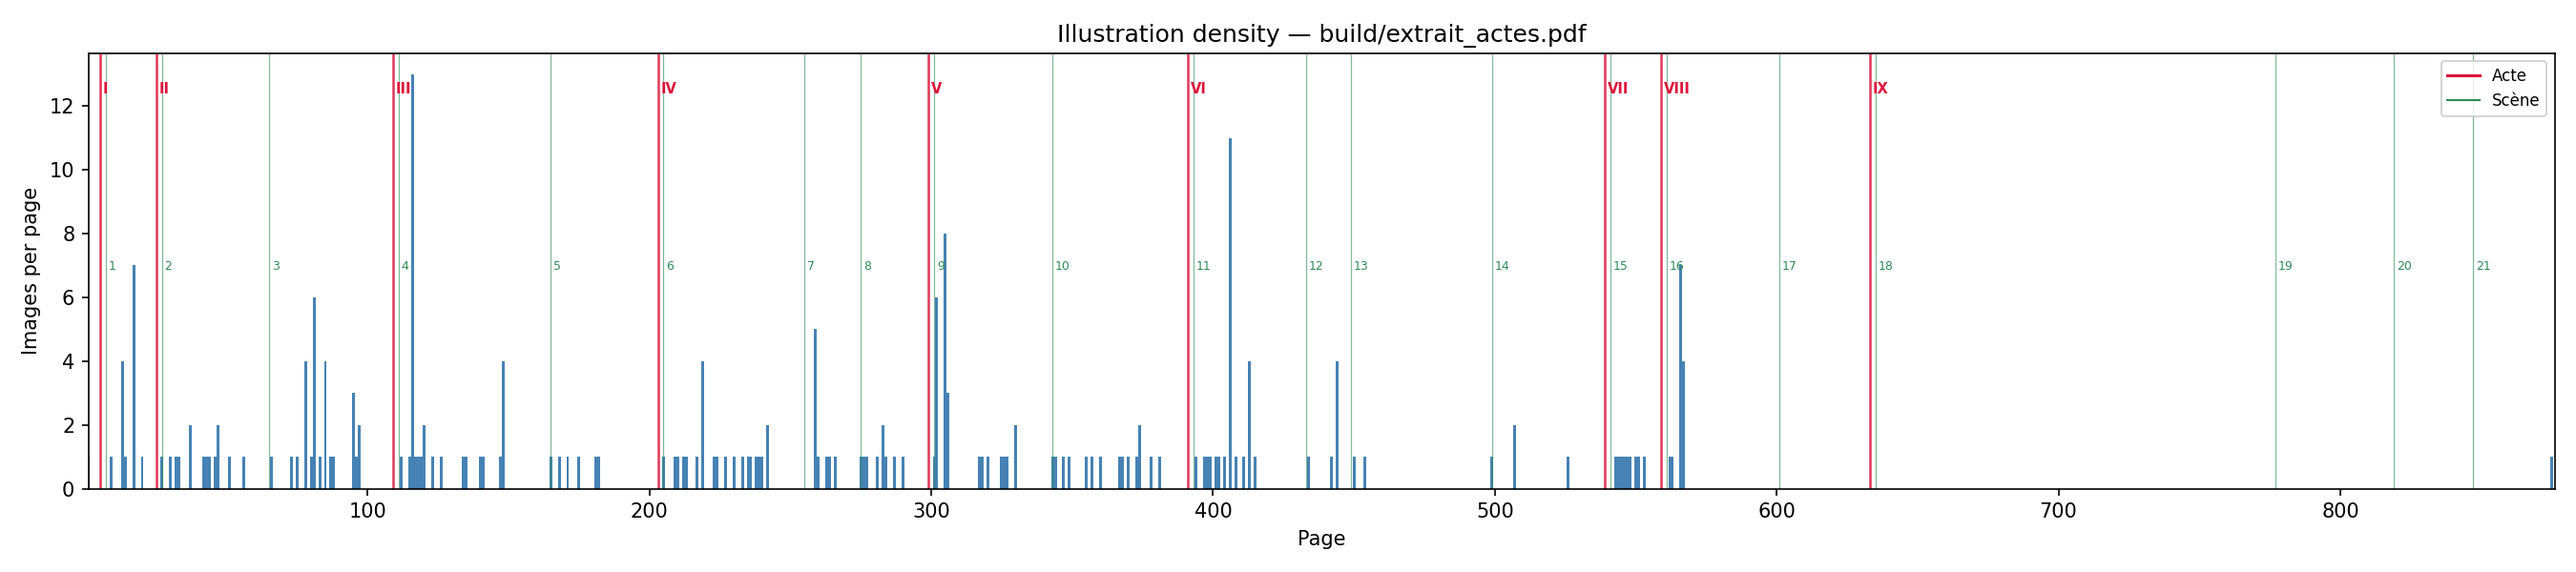
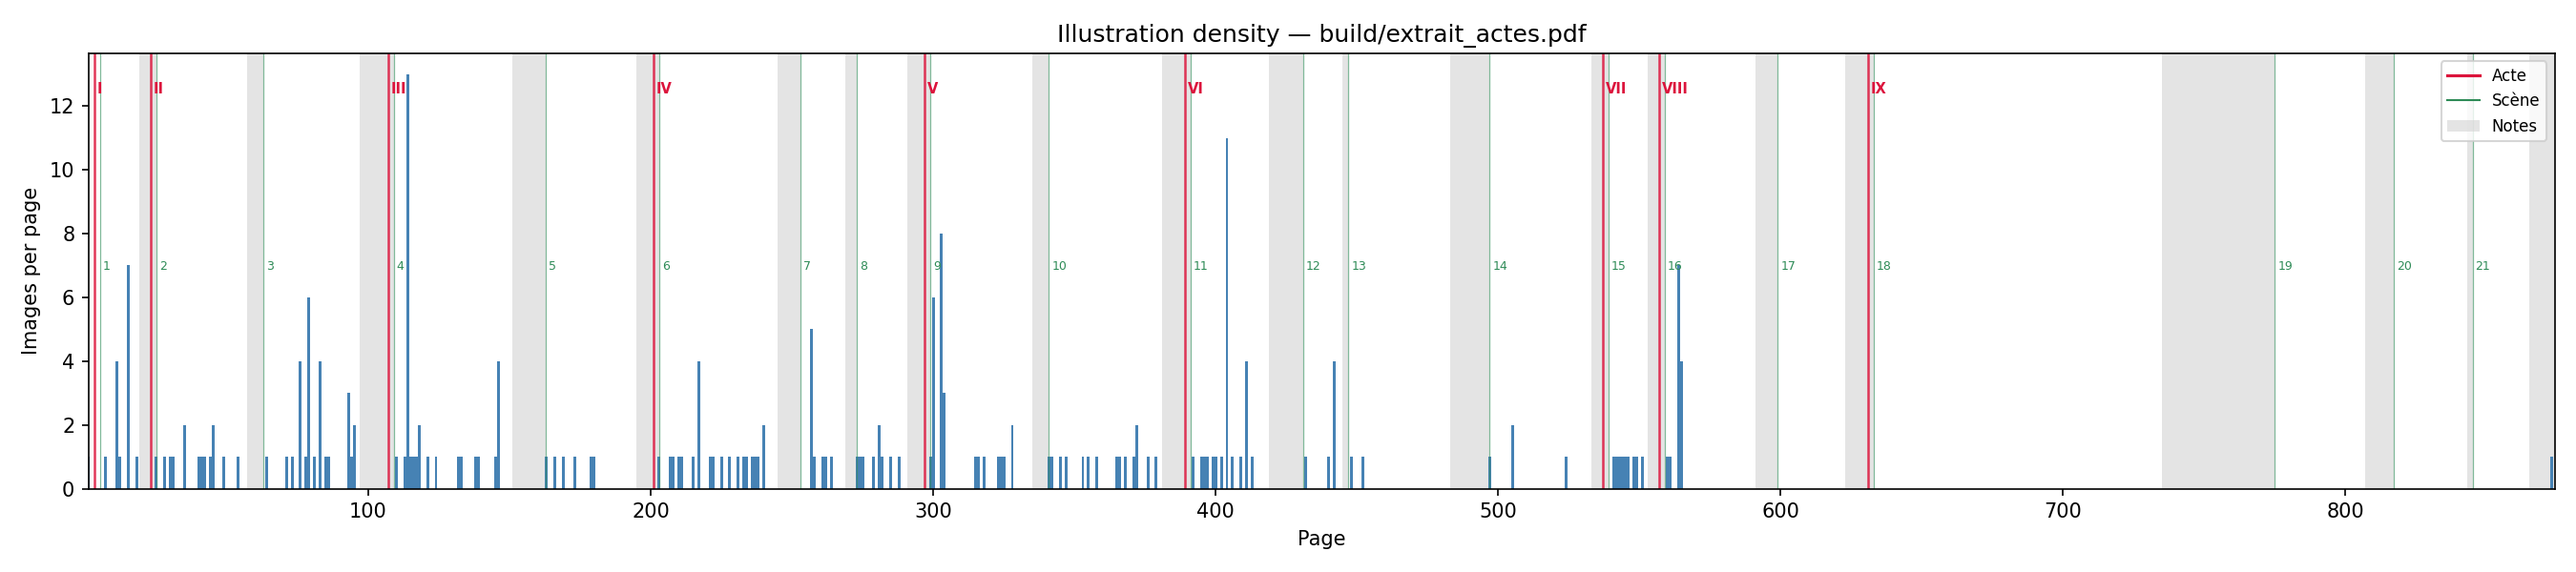
add notes bookmarks and illustration density chart improvements
- _preamble.tex: add \bookmark for notes in \startnewchapter (per scene)
- extrait_actes.tex: add \bookmark for notes in \acte macro (per act)
- illustration_density.py: read all data from PDF bookmarks (pymupdf),
  show notes spans as grey bands ending at scene boundaries

diff --git a/illustration_density.py b/illustration_density.py
@@ -1,87 +1,110 @@
 #!/usr/bin/env python3
 """
 Generate a bar chart of illustration density (images per page)
-from the compiled PDF, with act and scene boundaries overlaid.
+from the compiled PDF, with act/scene boundaries and notes spans
+read directly from the PDF bookmarks.
 
 Usage:
     python3 illustration_density.py
     python3 illustration_density.py build/my_other.pdf  # custom PDF path
 
 Output: illustration_density.png (next to this script)
+
+Requirements: pdfimages, pdfinfo (poppler), pymupdf (pip install pymupdf)
 """
 
 import collections
-import re
 import subprocess
 import sys
-from pathlib import Path
 
+import fitz  # pymupdf
 import matplotlib
 matplotlib.use('Agg')
 import matplotlib.pyplot as plt
+from matplotlib.lines import Line2D
+from matplotlib.patches import Patch
 
 PDF_PATH = sys.argv[1] if len(sys.argv) > 1 else 'build/extrait_actes.pdf'
-TOC_PATH = str(Path(PDF_PATH).with_suffix('.toc'))
 
-ROMAN = ['I','II','III','IV','V','VI','VII','VIII','IX','X']
+# ── 1. Read bookmarks from PDF ────────────────────────────────────────────────
 
-# --- parse act and scene start pages from TOC ---
-def parse_toc(toc_path):
-    toc = Path(toc_path).read_text(encoding='utf-8')
-    acts   = [int(m.group(1)) for m in re.finditer(r'Acte~[IVXLC]+\}\{(\d+)\}', toc)]
-    scenes = [int(m.group(1)) for m in re.finditer(r'\\chapternumberline\s*\{[^}]+\}\}\{(\d+)\}', toc)]
-    return acts, scenes
+doc = fitz.open(PDF_PATH)
+toc = doc.get_toc()          # [[level, title, page], ...]
+total_pages = doc.page_count
+doc.close()
 
-acts, scenes = parse_toc(TOC_PATH)
+acts   = []   # (title, page)
+scenes = []   # (title, page)
+notes  = []   # page
 
-# --- get total page count ---
-info = subprocess.run(['pdfinfo', PDF_PATH], capture_output=True, text=True)
-total_pages = 1
-for line in info.stdout.splitlines():
-    if line.startswith('Pages:'):
-        total_pages = int(line.split()[1])
-        break
+for level, title, page in toc:
+    t = title.strip()
+    if level == 1 and t.startswith('Acte'):
+        acts.append((t, page))
+    elif level >= 2 and t.startswith('Scène'):
+        scenes.append((t, page))
+    elif t == 'Notes':
+        notes.append(page)
 
-# --- parse pdfimages -list ---
+print(f"Bookmarks — Acts: {len(acts)}, Scenes: {len(scenes)}, Notes sections: {len(notes)}")
+
+# ── 2. Notes spans: from Notes page to next act/scene/notes start ─────────────
+
+scene_pages = sorted(p for _, p in scenes)
+
+def notes_end(notes_page):
+    """Last page of a notes section = page before the next scene starts."""
+    candidates = [p for p in scene_pages if p > notes_page]
+    return (min(candidates) - 1) if candidates else total_pages
+
+notes_spans = [(p, notes_end(p)) for p in notes]
+
+# ── 3. Count images per page via pdfimages ────────────────────────────────────
+
 result = subprocess.run(
     ['pdfimages', '-list', PDF_PATH],
     capture_output=True, text=True
 )
 counts = collections.Counter()
-for line in result.stdout.splitlines()[2:]:   # skip 2 header lines
+for line in result.stdout.splitlines()[2:]:
     parts = line.split()
     if len(parts) < 4:
         continue
-    if parts[2] == 'smask':          # skip alpha masks (not standalone images)
+    if parts[2] == 'smask':
         continue
-    page = int(parts[0])
-    counts[page] += 1
+    counts[int(parts[0])] += 1
 
 pages  = list(range(1, total_pages + 1))
 values = [counts.get(p, 0) for p in pages]
 
-print(f"PDF:   {PDF_PATH}")
-print(f"Pages: {total_pages}")
-print(f"Pages with images: {sum(1 for v in values if v > 0)}")
-print(f"Max images on a single page: {max(values)} (page {pages[values.index(max(values))]})")
+print(f"Pages: {total_pages}  |  Pages with images: {sum(1 for v in values if v > 0)}")
+print(f"Max images on one page: {max(values)} (p.{pages[values.index(max(values))]})")
 
-# --- plot ---
+# ── 4. Plot ───────────────────────────────────────────────────────────────────
+
 fig, ax = plt.subplots(figsize=(18, 4))
+
+# Notes spans — light grey background
+for start, end in notes_spans:
+    ax.axvspan(start, end + 1, color='lightgrey', alpha=0.6, linewidth=0)
+
+# Image bars
 ax.bar(pages, values, width=1.0, color='steelblue', linewidth=0)
 
 top = max(values)
 
-# scene lines — green, thin, label near bottom
-for i, p in enumerate(scenes, 1):
+# Scene lines — green
+for title, p in scenes:
+    num = title.replace('Scène', '').strip()
     ax.axvline(p, color='seagreen', linewidth=0.6, alpha=0.6)
-    ax.text(p + 1, top * 0.55, str(i),
-            color='seagreen', fontsize=6, va='top')
+    ax.text(p + 1, top * 0.55, num, color='seagreen', fontsize=6, va='top')
 
-# act lines — red, thicker, label near top
-for i, p in enumerate(acts):
+# Act lines — red
+for title, p in acts:
+    label = title.replace('Acte', '').strip()
     ax.axvline(p, color='crimson', linewidth=1.2, alpha=0.85)
-    ax.text(p + 1, top * 0.98, ROMAN[i],
-            color='crimson', fontsize=7, va='top', fontweight='bold')
+    ax.text(p + 1, top * 0.98, label, color='crimson', fontsize=7,
+            va='top', fontweight='bold')
 
 ax.set_xlabel('Page')
 ax.set_ylabel('Images per page')
@@ -89,11 +112,10 @@ ax.set_title(f'Illustration density — {PDF_PATH}')
 ax.set_xlim(1, total_pages)
 ax.yaxis.get_major_locator().set_params(integer=True)
 
-# legend
-from matplotlib.lines import Line2D
 legend = [
-    Line2D([0], [0], color='crimson',  linewidth=1.5, label='Acte'),
-    Line2D([0], [0], color='seagreen', linewidth=1.0, label='Scène'),
+    Line2D([0], [0], color='crimson',   linewidth=1.5, label='Acte'),
+    Line2D([0], [0], color='seagreen',  linewidth=1.0, label='Scène'),
+    Patch(facecolor='lightgrey', alpha=0.6,             label='Notes'),
 ]
 ax.legend(handles=legend, fontsize=8, loc='upper right')
 

diff --git a/_preamble.tex b/_preamble.tex
@@ -198,6 +198,7 @@
   \ifdefined\AVECNOTES
     \ifdefined\NOTESENFIN\else
       \cleardoublepage
+      \bookmark[page=\thepage,level=2]{Notes}%
       {\centering\scenotitlefont Notes\par}%
       \vspace{\onelineskip}%
       \begingroup\parindent=0pt
